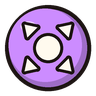
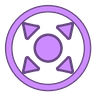
Iconos de los objetos mas sencillos: aro y simbolo en dos tonos de su color
El simbolo se pinta del color del objeto, con el borde en un tono mas oscuro
del mismo color, y entre el aro y el simbolo queda transparente. La tirita
pasa a ser una cruz de dos tiritas: sola y en diagonal dentro del aro era la
senal de prohibido. El suelo y el HUD ya no pintan un aro aparte.

diff --git a/herramientas/generar_iconos_objetos.py b/herramientas/generar_iconos_objetos.py
@@ -1,22 +1,27 @@
 # -*- coding: utf-8 -*-
 """Dibuja los iconos de los objetos recogibles (assets/objetos/icono_*.png).
 
-Pedido por Matias el 2026-11-03: «me gusta la sencillez del color, pero no me
-convencen todos los dibujos». Se queda el color plano de cada uno (el de su
-.tres: verde movimiento, azul disparo, naranja velocidad de bola, morado
-tamano de bola, rojo vida) y cambia el dibujo: ahora cada objeto es un orbe
-de su color, con un borde oscuro y un brillo, y dentro un simbolo blanco de lo
-que hace. Asi todos se leen como "cosa que se coge" y se distinguen por el
-color de lejos y por el simbolo de cerca.
+Pedido por Matias el 2026-11-03, en dos pasos. Primero: «me gusta la
+sencillez del color, pero no me convencen todos los dibujos» (se cambiaron
+los dibujos y se metieron en un orbe de su color con el simbolo en blanco).
+Luego: «que sea minimalista: que el dibujo solo tenga uno o dos tonos de un
+solo color, que se pinte el dibujo (lo que era blanco) y se deje
+transparente entre la circunferencia exterior y el dibujo».
 
-- Botas ligeras (velocidad): una bota con dos rayas de prisa detras.
+Asi que cada icono es un aro del color del objeto (el de su .tres: verde
+movimiento, azul disparo, naranja velocidad de bola, morado tamano de bola,
+rojo vida) y, dentro, el simbolo pintado de ese mismo color, con su borde y
+sus detalles en un tono mas oscuro del mismo color. Entre el aro y el
+simbolo no hay nada: se ve el suelo.
+
+- Botas ligeras (velocidad): una bota con tres rayas de prisa detras.
 - Chispa veloz (disparar mas seguido): un rayo.
-- Nucleo ardiente (bola mas rapida): un cometa, la bola con su estela.
+- Nucleo ardiente (bola mas rapida): una bola de fuego.
 - Orbe hinchado (bola mas grande): una bola con cuatro flechas hacia fuera.
-- Vendaje (cura): una venda cruzada con su gasa.
+- Vendaje (cura): una tirita.
 
 Se dibuja a 4 veces el tamano y se reduce, para que los bordes salgan suaves.
-Los antiguos (formas sueltas de color, sin orbe) estan en el historial de git.
+Los de antes estan en el historial de git.
 
     python herramientas/generar_iconos_objetos.py
 """
@@ -32,11 +37,11 @@ LADO = 96
 X = 4  # se dibuja a X veces y se reduce
 L = LADO * X
 C = L / 2
-RADIO = 43 * X
-BORDE = 4 * X
-OSCURO = (28, 20, 18, 255)
-BLANCO = (255, 250, 238, 255)
-TRAZO = int(3.2 * X)
+RADIO_ARO = 43 * X
+GROSOR_ARO = 5 * X
+TRAZO = int(2.6 * X)
+# Lo que se oscurece el color para el segundo tono (borde y detalles).
+OSCURECER = 0.5
 
 # Los del .tres de cada objeto (color), en 0-255.
 COLORES = {
@@ -48,42 +53,42 @@ COLORES = {
 }
 
 
-def mezclar(color, otro, t):
-    return tuple(round(a + (b - a) * t) for a, b in zip(color, otro))
+class Pincel:
+    """Los dos tonos de un objeto y como pintar con ellos."""
 
+    def __init__(self, color):
+        self.imagen = Image.new("RGBA", (L, L), (0, 0, 0, 0))
+        self.d = ImageDraw.Draw(self.imagen)
+        self.tono = tuple(color) + (255,)
+        self.sombra = tuple(round(c * (1.0 - OSCURECER)) for c in color) + (255,)
+        # El aro de fuera: un borde oscuro fino y el aro del color encima.
+        self.d.ellipse([C - RADIO_ARO, C - RADIO_ARO, C + RADIO_ARO, C + RADIO_ARO],
+                       outline=self.sombra, width=GROSOR_ARO + TRAZO)
+        r = RADIO_ARO - TRAZO * 0.5
+        self.d.ellipse([C - r, C - r, C + r, C + r], outline=self.tono, width=GROSOR_ARO)
 
-def orbe(color):
-    """El orbe: borde oscuro, cuerpo del color, una media luna mas oscura
-    abajo a la derecha (para que tenga volumen sin dejar de ser plano) y un
-    brillo arriba a la izquierda."""
-    imagen = Image.new("RGBA", (L, L), (0, 0, 0, 0))
-    d = ImageDraw.Draw(imagen)
-    d.ellipse([C - RADIO, C - RADIO, C + RADIO, C + RADIO], fill=OSCURO)
-    r = RADIO - BORDE
-    sombra = mezclar(color, (0, 0, 0), 0.22) + (255,)
-    d.ellipse([C - r, C - r, C + r, C + r], fill=sombra)
-    # El cuerpo, un poco hacia arriba a la izquierda: lo que queda a la
-    # vista de la sombra es la media luna.
-    cuerpo = r * 0.94
-    dx = -r * 0.07
-    d.ellipse([C + dx - cuerpo, C + dx - cuerpo, C + dx + cuerpo, C + dx + cuerpo], fill=tuple(color) + (255,))
-    brillo = mezclar(color, (255, 255, 255), 0.55) + (255,)
-    bx, by = C - r * 0.5, C - r * 0.55
-    d.ellipse([bx - r * 0.2, by - r * 0.13, bx + r * 0.2, by + r * 0.13], fill=brillo)
-    return imagen, d
+    def poligono(self, puntos, relleno=None):
+        """Del color, con el borde en el tono oscuro."""
+        self.d.line(puntos + [puntos[0]], fill=self.sombra, width=TRAZO * 2, joint="curve")
+        for x, y in puntos:
+            self.d.ellipse([x - TRAZO, y - TRAZO, x + TRAZO, y + TRAZO], fill=self.sombra)
+        self.d.polygon(puntos, fill=relleno or self.tono)
 
+    def circulo(self, x, y, r):
+        self.d.ellipse([x - r - TRAZO, y - r - TRAZO, x + r + TRAZO, y + r + TRAZO], fill=self.sombra)
+        self.d.ellipse([x - r, y - r, x + r, y + r], fill=self.tono)
 
-def con_borde(d, puntos, relleno=BLANCO):
-    """Un poligono blanco con el contorno oscuro, como el borde del orbe."""
-    d.line(puntos + [puntos[0]], fill=OSCURO, width=TRAZO * 2, joint="curve")
-    for x, y in puntos:
-        d.ellipse([x - TRAZO, y - TRAZO, x + TRAZO, y + TRAZO], fill=OSCURO)
-    d.polygon(puntos, fill=relleno)
+    def raya(self, a, b, grueso):
+        """Una raya redondeada del color, con su borde oscuro."""
+        for color, ancho in ((self.sombra, grueso + TRAZO * 2 / X), (self.tono, grueso)):
+            self.d.line([p(*a), p(*b)], fill=color, width=int(ancho * X))
+            for x, y in (a, b):
+                r = ancho / 2
+                self.d.ellipse([p(x - r, y - r), p(x + r, y + r)], fill=color)
 
-
-def circulo(d, x, y, r, relleno=BLANCO):
-    d.ellipse([x - r - TRAZO, y - r - TRAZO, x + r + TRAZO, y + r + TRAZO], fill=OSCURO)
-    d.ellipse([x - r, y - r, x + r, y + r], fill=relleno)
+    def detalle(self, a, b, grueso=3.0):
+        """Una linea fina en el tono oscuro, encima del dibujo."""
+        self.d.line([p(*a), p(*b)], fill=self.sombra, width=int(grueso * X))
 
 
 def p(x, y):
@@ -92,38 +97,27 @@ def p(x, y):
 
 
 def bota():
-    """Una bota con tres rayas de prisa detras. (Con un ala en el talon se
-    probo: a este tamano las plumas parecian dedos.)"""
-    imagen, d = orbe(COLORES["bota"])
-    oscuro = mezclar(COLORES["bota"], (0, 0, 0), 0.35) + (255,)
+    pincel = Pincel(COLORES["bota"])
     for y, x0, largo in ((34, 22, 11), (45, 17, 15), (56, 22, 11)):
-        d.line([p(x0, y), p(x0 + largo, y)], fill=OSCURO, width=int(7 * X))
-        for x in (x0, x0 + largo):
-            d.ellipse([p(x - 3.5, y - 3.5), p(x + 3.5, y + 3.5)], fill=OSCURO)
-        d.line([p(x0, y), p(x0 + largo, y)], fill=BLANCO, width=int(3.4 * X))
-        for x in (x0, x0 + largo):
-            d.ellipse([p(x - 1.7, y - 1.7), p(x + 1.7, y + 1.7)], fill=BLANCO)
-    # La bota: cana con la boca mas ancha, empeine y puntera redondeada.
-    con_borde(d, [p(39, 22), p(56, 22), p(54, 46), p(66, 51), p(72, 57), p(72, 66), p(40, 66)])
-    # La vuelta de arriba y la suela, del color del orbe, para que se lea
-    # que es una bota y no una L.
-    d.line([p(41, 29), p(54, 29)], fill=oscuro, width=int(3 * X))
-    d.line([p(42, 62), p(70, 62)], fill=oscuro, width=int(3 * X))
-    return imagen
+        pincel.raya((x0, y), (x0 + largo, y), 3.6)
+    pincel.poligono([p(39, 22), p(56, 22), p(54, 46), p(66, 51), p(72, 57), p(72, 66), p(40, 66)])
+    # La vuelta de arriba y la suela: que se lea que es una bota y no una L.
+    pincel.detalle((41, 29), (54, 29))
+    pincel.detalle((42, 62), (70, 62))
+    return pincel.imagen
 
 
 def rayo():
-    imagen, d = orbe(COLORES["rayo"])
-    con_borde(d, [p(53, 18), p(32, 52), p(46, 52), p(40, 78), p(64, 42), p(50, 42), p(58, 18)])
-    return imagen
+    pincel = Pincel(COLORES["rayo"])
+    pincel.poligono([p(53, 18), p(32, 52), p(46, 52), p(40, 78), p(64, 42), p(50, 42), p(58, 18)])
+    return pincel.imagen
 
 
 def llama():
-    """Un cometa: la bola delante y la estela detras, que se afina."""
-    imagen, d = orbe(COLORES["llama"])
-    # La estela, de fuego: tres lenguas que salen de la bola hacia abajo a la
-    # izquierda, la del medio mas larga. Con una cola recta se leia como un
-    # cucurucho de helado.
+    """Una bola de fuego: la bola y tres lenguas detras, hacia abajo a la
+    izquierda, la del medio mas larga. (Con una cola recta se leia como un
+    cucurucho de helado.)"""
+    pincel = Pincel(COLORES["llama"])
     cx, cy, r = 60, 38, 12
     atras = (-math.sqrt(0.5), math.sqrt(0.5))
     lado = (math.sqrt(0.5), math.sqrt(0.5))
@@ -132,15 +126,15 @@ def llama():
         return p(cx + lado[0] * de_lado + atras[0] * de_atras,
                  cy + lado[1] * de_lado + atras[1] * de_atras)
 
-    con_borde(d, [punto(r, 0), punto(10, 26), punto(4, 18), punto(0, 36),
-                  punto(-4, 18), punto(-10, 26), punto(-r, 0)])
-    circulo(d, *p(cx, cy), r * X)
-    return imagen
+    pincel.poligono([punto(r, 0), punto(10, 26), punto(4, 18), punto(0, 36),
+                     punto(-4, 18), punto(-10, 26), punto(-r, 0)])
+    pincel.circulo(*p(cx, cy), r * X)
+    return pincel.imagen
 
 
 def orbe_hinchado():
-    imagen, d = orbe(COLORES["orbe"])
-    circulo(d, *p(48, 48), 12 * X)
+    pincel = Pincel(COLORES["orbe"])
+    pincel.circulo(*p(48, 48), 12 * X)
     # Cuatro flechas hacia fuera, en diagonal: la bola crece.
     for angulo in (45, 135, 225, 315):
         a = math.radians(angulo)
@@ -148,30 +142,23 @@ def orbe_hinchado():
         punta = (48 + dx * 33, 48 + dy * 33)
         base = (48 + dx * 22, 48 + dy * 22)
         lado = (-dy * 7, dx * 7)
-        con_borde(d, [p(*punta), p(base[0] + lado[0], base[1] + lado[1]),
-                      p(base[0] - lado[0], base[1] - lado[1])])
-    return imagen
+        pincel.poligono([p(*punta), p(base[0] + lado[0], base[1] + lado[1]),
+                         p(base[0] - lado[0], base[1] - lado[1])])
+    return pincel.imagen
 
 
 def cruz():
-    """Una tirita: una venda en diagonal con la gasa en medio. Era una cruz;
-    dos vendas en X se leian como un «no»."""
-    imagen, d = orbe(COLORES["cruz"])
-    dx, dy = 22 * math.sqrt(0.5), -22 * math.sqrt(0.5)
-    a, b = (48 - dx, 48 - dy), (48 + dx, 48 + dy)
-    d.line([p(*a), p(*b)], fill=OSCURO, width=int(25 * X))
-    for sx, sy in (a, b):
-        d.ellipse([p(sx - 12.5, sy - 12.5), p(sx + 12.5, sy + 12.5)], fill=OSCURO)
-    d.line([p(*a), p(*b)], fill=BLANCO, width=int(18 * X))
-    for sx, sy in (a, b):
-        d.ellipse([p(sx - 9, sy - 9), p(sx + 9, sy + 9)], fill=BLANCO)
-    # La gasa, un cuadrado girado del color del orbe con sus agujeritos.
-    gasa = mezclar(COLORES["cruz"], (255, 255, 255), 0.45) + (255,)
-    con_borde(d, [p(48, 37), p(59, 48), p(48, 59), p(37, 48)], gasa)
-    agujero = mezclar(COLORES["cruz"], (0, 0, 0), 0.2) + (255,)
-    for x, y in ((48, 43), (53, 48), (48, 53), (43, 48)):
-        d.ellipse([p(x - 1.4, y - 1.4), p(x + 1.4, y + 1.4)], fill=agujero)
-    return imagen
+    """La cruz de curar, hecha con dos tiritas, y la gasa en medio. Una
+    tirita sola en diagonal, dentro del aro, era la senal de prohibido; dos
+    en X se leian como un «no»."""
+    pincel = Pincel(COLORES["cruz"])
+    pincel.raya((48, 27), (48, 69), 16)
+    pincel.raya((27, 48), (69, 48), 16)
+    # La gasa, en el tono oscuro, con sus agujeritos del color.
+    pincel.poligono([p(41, 41), p(55, 41), p(55, 55), p(41, 55)], pincel.sombra)
+    for x, y in ((45, 45), (51, 45), (45, 51), (51, 51)):
+        pincel.d.ellipse([p(x - 1.5, y - 1.5), p(x + 1.5, y + 1.5)], fill=pincel.tono)
+    return pincel.imagen
 
 
 ICONOS = {

diff --git a/resources/objetos/README.md b/resources/objetos/README.md
@@ -30,13 +30,18 @@ uno más; se quitó, y está en el historial de git. El campo
 
 ## Los iconos
 
-Cada objeto es un orbe de su color con un símbolo blanco dentro (bota con
-rayas de prisa, rayo, bola de fuego, bola con flechas hacia fuera, tirita).
-Los dibuja `herramientas/generar_iconos_objetos.py` desde el 2026-11-03
-(Matías: «me gusta la sencillez del color, pero no me convencen todos los
-dibujos»): se quedó el color de cada uno y cambió el dibujo. Antes eran
-formas sueltas de color (bota, rayo, llama, bola, cruz); están en el
-historial de git. Un objeto nuevo: una función más en el script.
+Cada objeto es un aro de su color con el símbolo dentro, pintado del mismo
+color, con el borde y los detalles en un tono más oscuro de ese color; entre
+el aro y el símbolo, transparente (bota con rayas de prisa, rayo, bola de
+fuego, bola con flechas hacia fuera, cruz de tiritas). Los dibuja
+`herramientas/generar_iconos_objetos.py` desde el 2026-11-03. Matías pidió
+primero otros dibujos («me gusta la sencillez del color, pero no me
+convencen todos los dibujos»); salió un orbe relleno con el símbolo en
+blanco, y lo quiso más sencillo: «uno o dos tonos de un solo color». Como el
+aro ya va en el icono, el objeto del suelo (`Objeto`) y la fila del HUD
+(`MejorasRecogidas`) ya no pintan el suyo. Antes eran formas sueltas de
+color (bota, rayo, llama, bola, cruz); están en el historial de git. Un
+objeto nuevo: una función más en el script.
 
 ## El código de color
 

diff --git a/docs/todo-lo-hecho.md b/docs/todo-lo-hecho.md
@@ -69,7 +69,8 @@ En tres semanas, el juego pasó de una base con obstáculos a un *roguelite* de 
 
 | Fecha | Qué | Commits |
 | --- | --- | --- |
-| 03/11/2026 | Estadísticas con F3 (FPS, rendimiento, partida y ping en cooperativo) e iconos nuevos de los objetos: un orbe de su color con un símbolo | — |
+| 03/11/2026 | Iconos de los objetos más sencillos: un aro de su color y el símbolo dentro, en dos tonos de ese color | — |
+| 03/11/2026 | Estadísticas con F3 (FPS, rendimiento, partida y ping en cooperativo) e iconos nuevos de los objetos | `f75cef9` |
 | 03/11/2026 | Mago verde: rocío de veneno 9 veces más rápido y 8 proyectiles que persiguen y envenenan (los venenos se suman); los slimes se parten en 4 crías que heredan el frío, el fuego y el veneno | `c3afeec` |
 | 03/11/2026 | Actualizar desde el juego también en Linux y en Mac, sin pasar por GitHub | `af44cd3` |
 | 03/11/2026 | El jefe escupe fuego: un chorro que gira 90° hacia ti y te deja quemándote | `777b129` |
